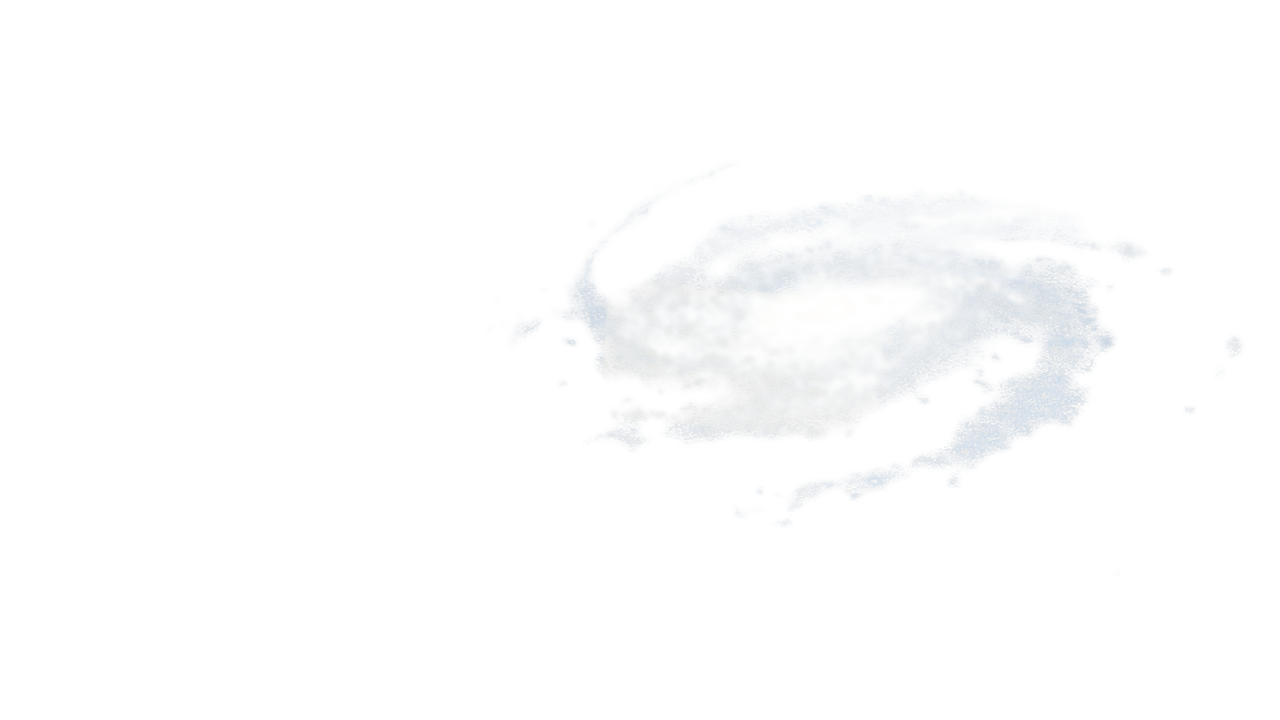
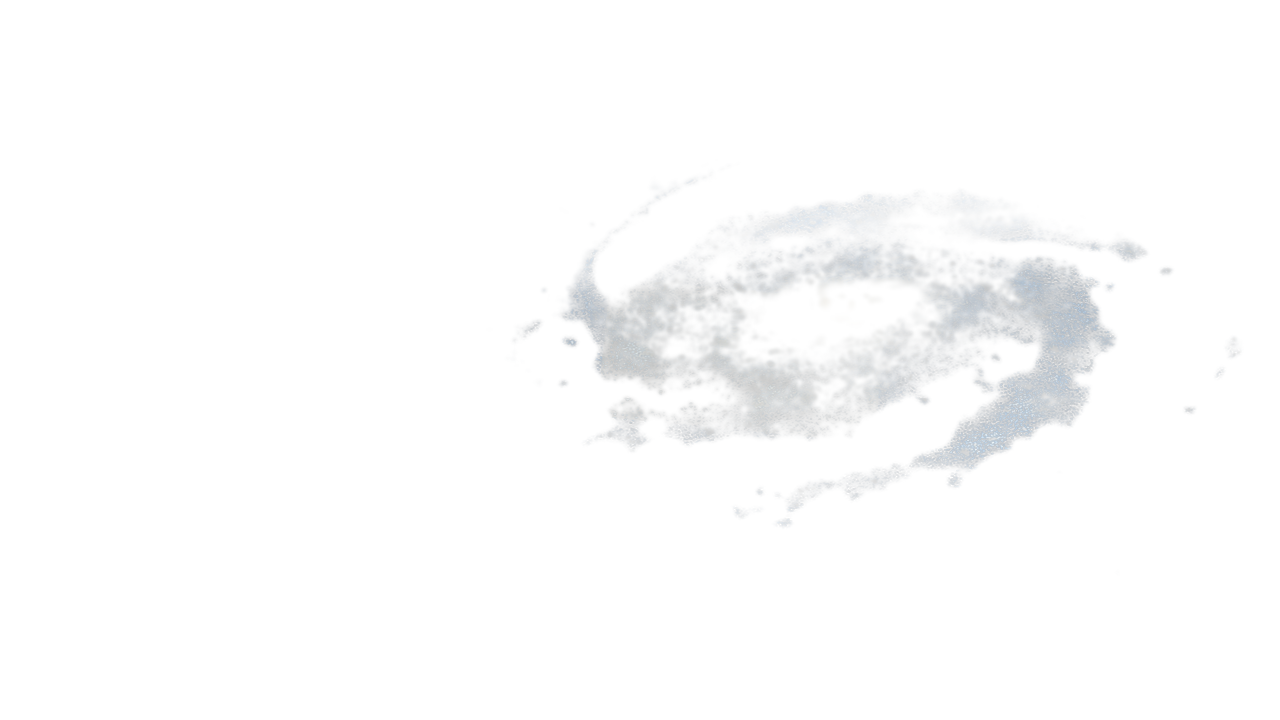
checkpoint: galaxy v4.4 material polish experiment
- test cinematic regrade of existing V4 hero assets
- reduce core overexposure and improve dust interruption
- reduce near and foreground LDI parallax
- confirm persistent arm streaking primarily originates in hero assets
- preserve current V4 asset interface and five-layer LDI architecture
- mark Galaxy V4.4 visual result as NOT READY for production
- retain experiment as reference for target-frame-driven development

diff --git a/src/universe/galaxy-v3/galaxyV3Config.js b/src/universe/galaxy-v3/galaxyV3Config.js
@@ -44,8 +44,8 @@ const GALAXY_V4_LDI_LAYERS = Object.freeze([
   Object.freeze({ id: 'background', source: '/assets/galaxy-v3/hero/v4/galaxy-v4-bg.webp', z: -0.04, renderOrder: 5, parallaxFactor: 0 }),
   Object.freeze({ id: 'farArm', source: '/assets/galaxy-v3/hero/v4/galaxy-v4-far-arm.webp', z: -0.02, renderOrder: 6, parallaxFactor: 0.24 }),
   Object.freeze({ id: 'core', source: '/assets/galaxy-v3/hero/v4/galaxy-v4-core.webp', z: 0, renderOrder: 7, parallaxFactor: 0.42 }),
-  Object.freeze({ id: 'nearArm', source: '/assets/galaxy-v3/hero/v4/galaxy-v4-near-arm.webp', z: 0.02, renderOrder: 8, parallaxFactor: 0.56 }),
-  Object.freeze({ id: 'foreground', source: '/assets/galaxy-v3/hero/v4/galaxy-v4-foreground.webp', z: 0.04, renderOrder: 9, parallaxFactor: 0.78 })
+  Object.freeze({ id: 'nearArm', source: '/assets/galaxy-v3/hero/v4/galaxy-v4-near-arm.webp', z: 0.02, renderOrder: 8, parallaxFactor: 0.46 }),
+  Object.freeze({ id: 'foreground', source: '/assets/galaxy-v3/hero/v4/galaxy-v4-foreground.webp', z: 0.04, renderOrder: 9, parallaxFactor: 0.58 })
 ]);
 
 export const GALAXY_V3_V4_CONFIG = Object.freeze({

diff --git a/tools/galaxy-v3-blender/galaxy_v44_regrade.py b/tools/galaxy-v3-blender/galaxy_v44_regrade.py
@@ -1,0 +1,192 @@
+#!/usr/bin/env python3
+"""Regrade the approved Galaxy V4 plate and rebuild its existing five LDI assets."""
+
+from __future__ import annotations
+
+import argparse
+import time
+from pathlib import Path
+
+import numpy as np
+from PIL import Image, ImageFilter
+
+
+LAYER_NAMES = (
+    "galaxy-v4-bg.webp",
+    "galaxy-v4-far-arm.webp",
+    "galaxy-v4-core.webp",
+    "galaxy-v4-near-arm.webp",
+    "galaxy-v4-foreground.webp",
+)
+
+
+def smoothstep(low: float, high: float, values: np.ndarray) -> np.ndarray:
+    t = np.clip((values - low) / (high - low), 0.0, 1.0)
+    return t * t * (3.0 - 2.0 * t)
+
+
+def blur(values: np.ndarray, radius: float) -> np.ndarray:
+    image = Image.fromarray(np.uint8(np.clip(values, 0.0, 1.0) * 255), "L")
+    return np.asarray(image.filter(ImageFilter.GaussianBlur(radius)), dtype=np.float32) / 255.0
+
+
+def luminance(rgb: np.ndarray) -> np.ndarray:
+    return 0.2126 * rgb[..., 0] + 0.7152 * rgb[..., 1] + 0.0722 * rgb[..., 2]
+
+
+def aligned_source_detail(source_path: Path, size: tuple[int, int]) -> np.ndarray:
+    source = Image.open(source_path).convert("RGBA")
+    source = source.resize((920, 650), Image.Resampling.LANCZOS).rotate(
+        -5.5,
+        resample=Image.Resampling.BICUBIC,
+        expand=True,
+    )
+    canvas = Image.new("RGBA", size, (0, 0, 0, 0))
+    canvas.paste(source, (386, 27), source)
+    rgba = np.asarray(canvas, dtype=np.float32) / 255.0
+    return luminance(rgba[..., :3]) * rgba[..., 3]
+
+
+def make_breakup_field(size: tuple[int, int]) -> np.ndarray:
+    rng = np.random.default_rng(4404)
+    width, height = size
+    broad = Image.fromarray(np.uint8(rng.random((15, 27)) * 255), "L").resize(
+        (width, height), Image.Resampling.BICUBIC
+    ).filter(ImageFilter.GaussianBlur(11.0))
+    local = Image.fromarray(np.uint8(rng.random((35, 63)) * 255), "L").resize(
+        (width, height), Image.Resampling.BICUBIC
+    ).filter(ImageFilter.GaussianBlur(4.0))
+    return (
+        np.asarray(broad, dtype=np.float32) * 0.58
+        + np.asarray(local, dtype=np.float32) * 0.42
+    ) / 255.0
+
+
+def regrade_plate(baseline_path: Path, source_path: Path) -> Image.Image:
+    baseline = Image.open(baseline_path).convert("RGB")
+    rgb = np.asarray(baseline, dtype=np.float32) / 255.0
+    original_luma = luminance(rgb)
+    source_luma = aligned_source_detail(source_path, baseline.size)
+    source_detail = source_luma - blur(source_luma, 1.35)
+
+    highlight_weight = np.clip(original_luma - 0.2, 0.0, 1.0) ** 4
+    total = float(highlight_weight.sum())
+    yy, xx = np.indices(original_luma.shape, dtype=np.float32)
+    core_x = float((xx * highlight_weight).sum() / total)
+    core_y = float((yy * highlight_weight).sum() / total)
+    dx = (xx - core_x) / 152.0
+    dy = (yy - core_y) / 76.0
+    core = np.exp(-(dx * dx + dy * dy))
+    bulge = np.exp(-((dx * 0.58) ** 2 + (dy * 0.72) ** 2))
+    arms = smoothstep(0.018, 0.24, original_luma) * (1.0 - core * 0.78)
+
+    # Break long continuous strokes into clustered stellar material without adding noise.
+    breakup = smoothstep(0.34, 0.68, make_breakup_field(baseline.size))
+    rgb *= (1.0 - arms[..., None] * (1.0 - breakup[..., None]) * 0.58)
+
+    # Reinforce existing high-frequency stars while keeping broad arm light restrained.
+    granular = smoothstep(0.018, 0.13, np.maximum(source_detail, 0.0)) * arms
+    negative_detail = smoothstep(0.014, 0.11, np.maximum(-source_detail, 0.0)) * arms
+    rgb += granular[..., None] * np.array([0.16, 0.18, 0.20], dtype=np.float32)
+    rgb *= 1.0 - negative_detail[..., None] * 0.20
+
+    # Restore natural dark lanes, including an asymmetric interruption through the bulge.
+    local_average = blur(original_luma, 9.0)
+    natural_dust = smoothstep(0.022, 0.15, np.maximum(local_average - original_luma, 0.0)) * arms
+    curved_lane_y = 0.18 + 0.16 * dx + 0.035 * dx * dx
+    core_lane = np.exp(-((dy - curved_lane_y) / 0.23) ** 2) * bulge
+    dust = np.clip(natural_dust * 0.64 + core_lane * (0.46 + 0.3 * breakup), 0.0, 1.0)
+    rgb *= 1.0 - dust[..., None] * 0.48
+
+    # Compress only the broad white core; retain a compact ivory nucleus and silver bulge.
+    current_luma = luminance(rgb)
+    broad_highlight = smoothstep(0.34, 0.86, current_luma) * bulge
+    rgb *= 1.0 - broad_highlight[..., None] * 0.31
+    nucleus = np.exp(-((dx / 0.28) ** 2 + (dy / 0.34) ** 2))
+    ivory = np.array([1.0, 0.93, 0.79], dtype=np.float32)
+    silver = np.array([0.73, 0.78, 0.82], dtype=np.float32)
+    rgb = rgb * (1.0 - (nucleus * 0.42)[..., None]) + ivory * (nucleus * 0.42)[..., None]
+    rgb = rgb * (1.0 - (bulge * 0.065)[..., None]) + silver * (bulge * 0.065)[..., None]
+
+    # Fade faint plate edges sooner so the galaxy dissolves into real black space.
+    structure = blur(original_luma, 4.0)
+    edge_fade = smoothstep(0.004, 0.072, structure)
+    edge_fade *= 0.72 + 0.28 * breakup
+    rgb *= edge_fade[..., None]
+    rgb = np.clip(rgb, 0.0, 1.0)
+    return Image.fromarray(np.uint8(rgb * 255), "RGB")
+
+
+def build_ldi(plate: Image.Image, depth_path: Path, output_directory: Path) -> float:
+    rgb = np.asarray(plate, dtype=np.float32) / 255.0
+    depth_image = Image.open(depth_path).convert("L")
+    if depth_image.size != plate.size:
+        depth_image = depth_image.resize(plate.size, Image.Resampling.BICUBIC)
+    depth = blur(np.asarray(depth_image, dtype=np.float32) / 255.0, 1.25)
+    plate_luma = luminance(rgb)
+
+    centers = np.array([0.08, 0.27, 0.50, 0.71, 0.89], dtype=np.float32)
+    widths = np.array([0.18, 0.17, 0.18, 0.17, 0.12], dtype=np.float32)
+    weights = np.stack([
+        np.exp(-0.5 * ((depth - center) / width) ** 2)
+        for center, width in zip(centers, widths)
+    ])
+    local = blur(plate_luma, 6.0)
+    texture = smoothstep(0.015, 0.10, np.abs(plate_luma - local))
+    selected_foreground = smoothstep(0.72, 0.92, depth) * texture
+    weights[4] *= selected_foreground
+    weights[3] *= 1.0 - selected_foreground * 0.24
+    weights = np.stack([blur(weight, 1.8) for weight in weights])
+    weights /= np.maximum(weights.sum(axis=0, keepdims=True), 1e-6)
+
+    # Higher shared alpha keeps dark arm colors dark when adjacent LDI layers separate.
+    base_alpha = np.clip(np.max(rgb, axis=2) ** 0.42, 0.0, 0.988)
+    straight_rgb = np.divide(
+        rgb,
+        np.maximum(base_alpha[..., None], 1e-4),
+        out=np.zeros_like(rgb),
+        where=base_alpha[..., None] > 1e-4,
+    )
+    straight_rgb = np.clip(straight_rgb, 0.0, 1.0)
+
+    output_directory.mkdir(parents=True, exist_ok=True)
+    composite = np.zeros_like(rgb)
+    for index, name in enumerate(LAYER_NAMES):
+        layer_alpha = 1.0 - np.power(1.0 - base_alpha, weights[index])
+        rgba = np.dstack((straight_rgb, layer_alpha))
+        Image.fromarray(np.uint8(np.clip(rgba, 0.0, 1.0) * 255), "RGBA").save(
+            output_directory / name,
+            "WEBP",
+            lossless=True,
+            method=6,
+        )
+        composite = straight_rgb * layer_alpha[..., None] + composite * (1.0 - layer_alpha[..., None])
+
+    return float(np.mean(np.abs(composite - rgb)) * 255.0)
+
+
+def main() -> int:
+    parser = argparse.ArgumentParser(description=__doc__)
+    parser.add_argument("--source", type=Path, required=True)
+    parser.add_argument("--baseline", type=Path, required=True)
+    parser.add_argument("--depth", type=Path, required=True)
+    parser.add_argument("--plate-output", type=Path, required=True)
+    parser.add_argument("--output-directory", type=Path, required=True)
+    args = parser.parse_args()
+    started = time.perf_counter()
+
+    plate = regrade_plate(args.baseline, args.source)
+    args.plate_output.parent.mkdir(parents=True, exist_ok=True)
+    plate.save(args.plate_output, "PNG", optimize=True)
+    mae = build_ldi(plate, args.depth, args.output_directory)
+
+    print(f"generation_seconds={time.perf_counter() - started:.3f}")
+    print(f"reconstruction_mae_8bit={mae:.4f}")
+    print(f"plate={args.plate_output.resolve()}")
+    for name in LAYER_NAMES:
+        print((args.output_directory / name).resolve())
+    return 0
+
+
+if __name__ == "__main__":
+    raise SystemExit(main())
